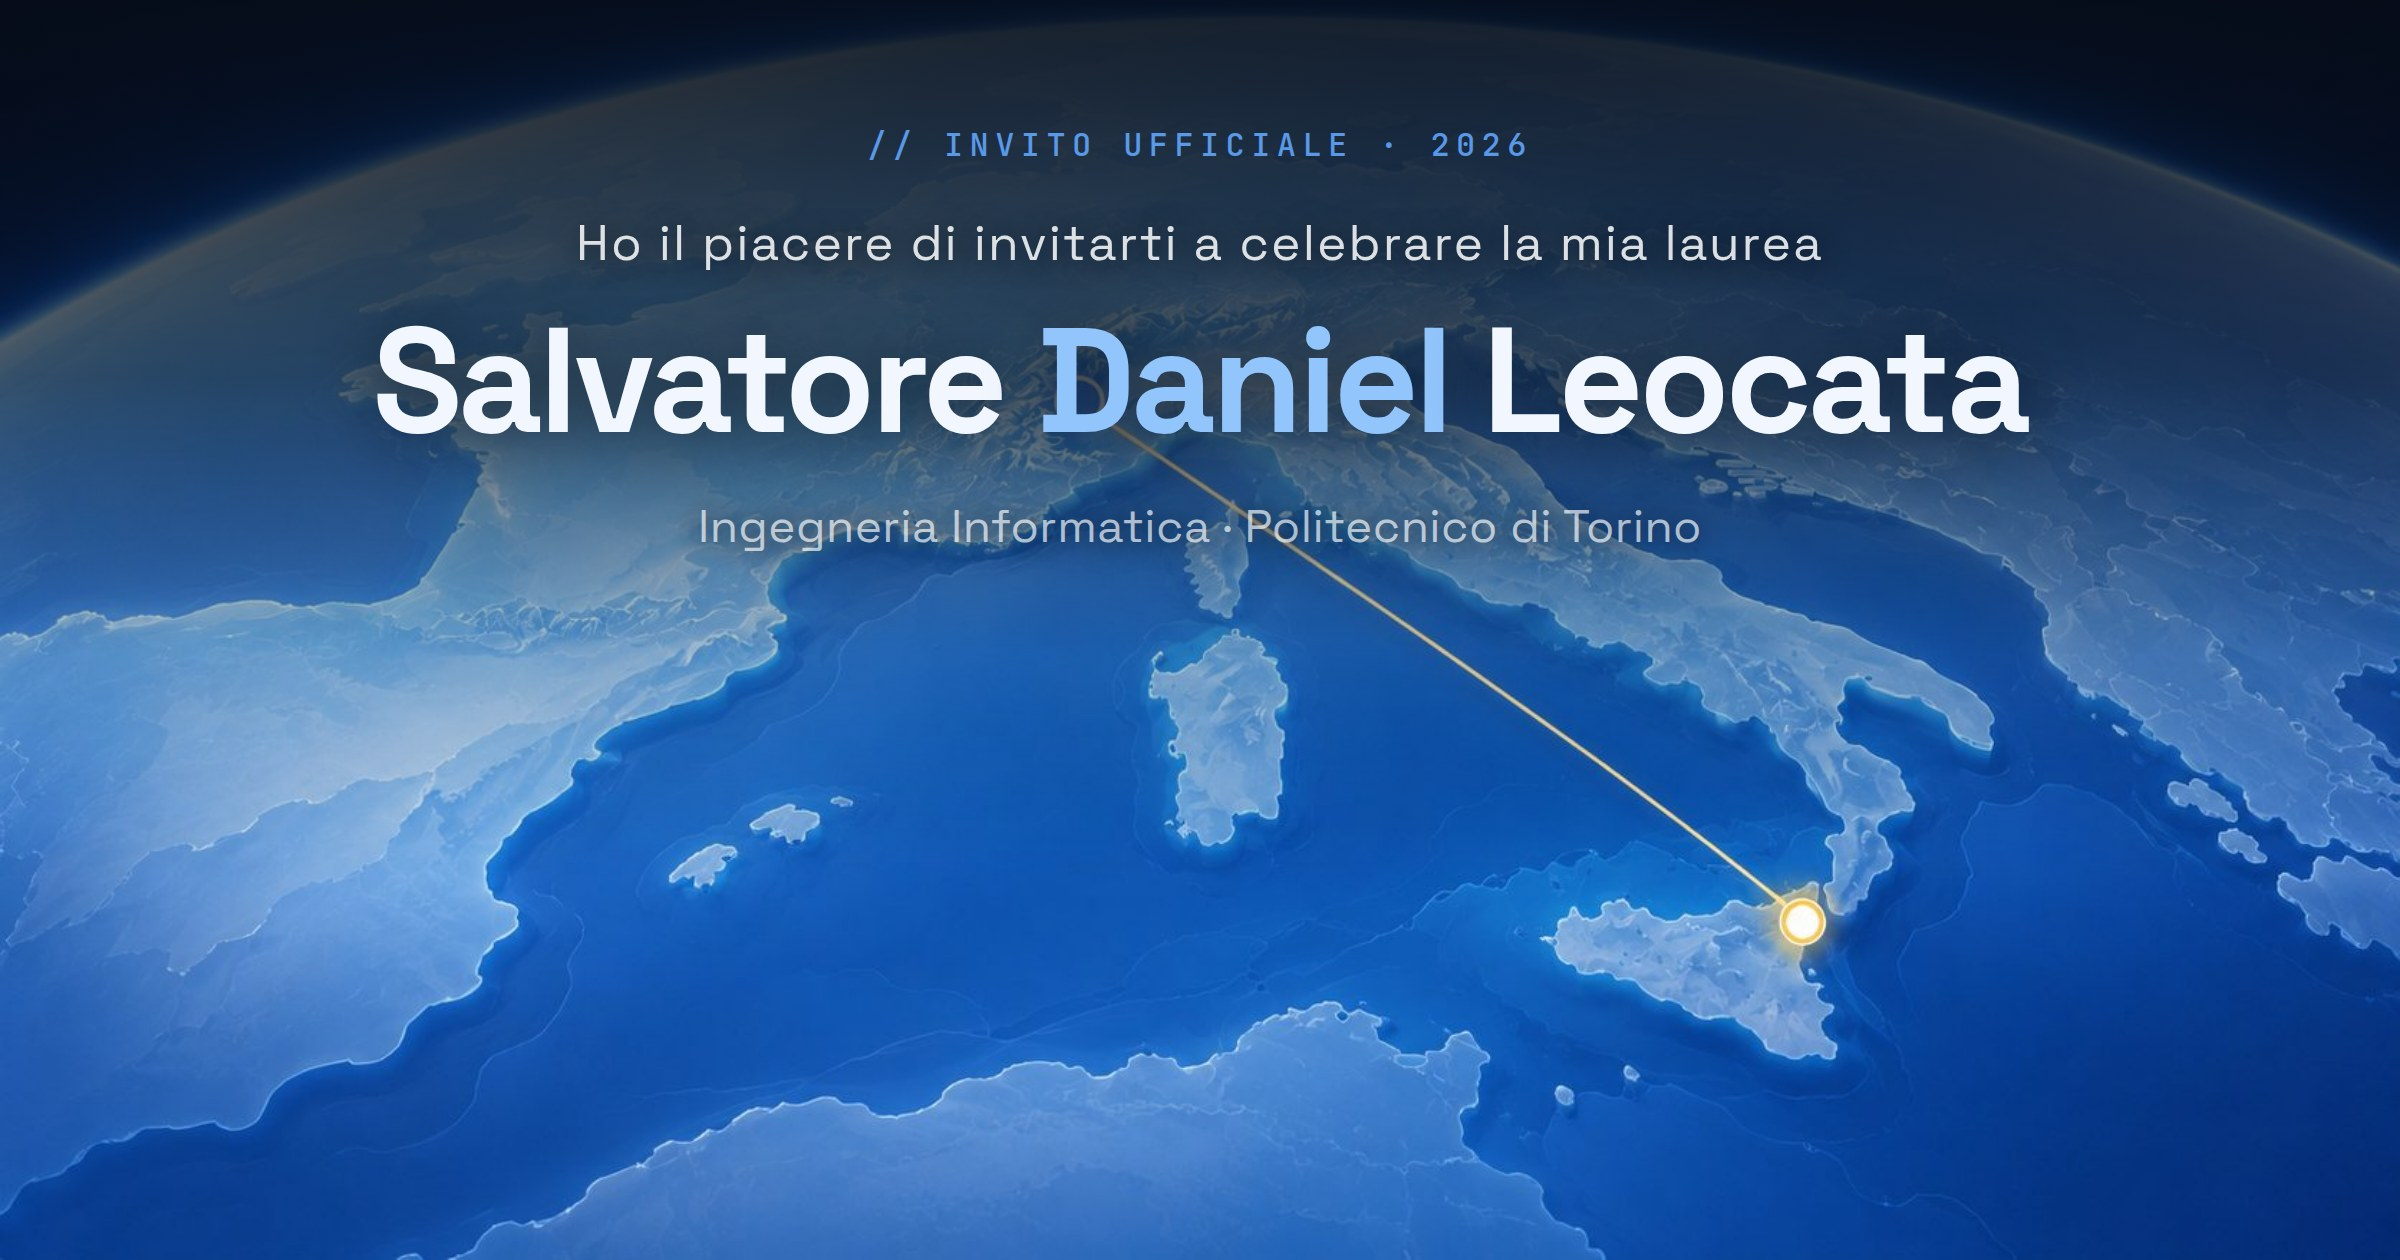
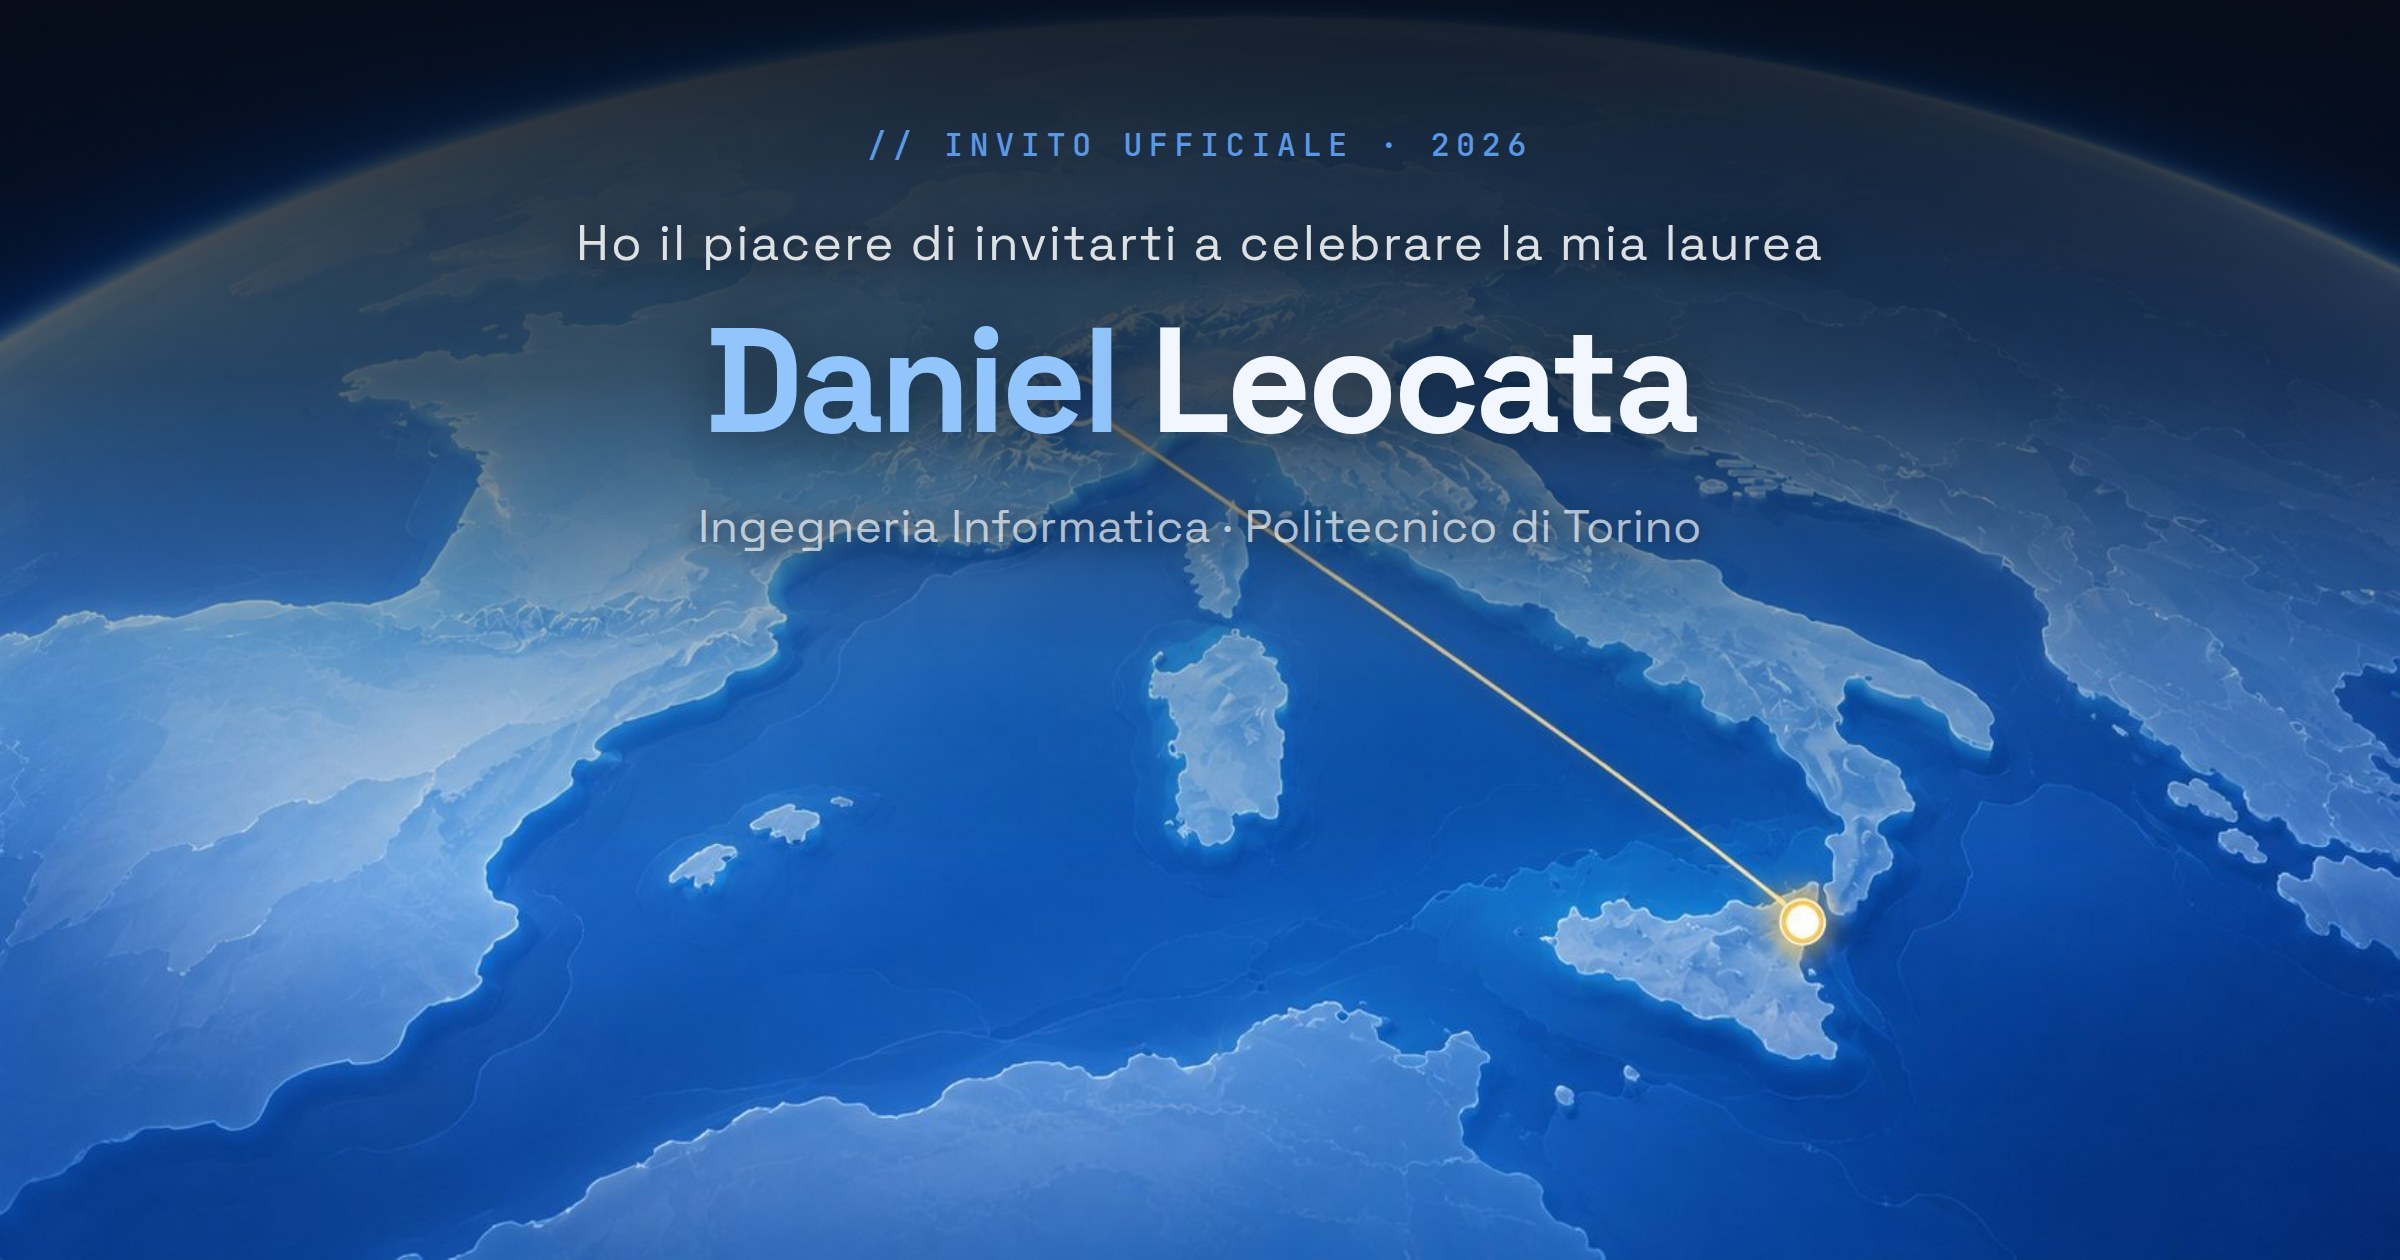
Rename to 'Daniel Leocata' throughout; RSVP deadline to early September
- 'Salvatore Daniel Leocata' -> 'Daniel Leocata' everywhere it appears:
  hero title, splash terminal, footer, .ics event summaries, the reserved
  message label, OG/Twitter metadata (siteName + alt), and the baked-in
  text on the share image (og-invito.jpg re-rendered).
- RSVP deadline: 'entro il 5 settembre 2026' -> 'entro i primi di
  settembre 2026', noting it applies to both events.

Claude-Session: https://claude.ai/code/session_01MfLdA35xtmqSoXEoTk93ye

Changed region(s): [[0.1562, 0.2476, 0.8438, 0.3405]]

diff --git a/components/graduation/graduation.tsx b/components/graduation/graduation.tsx
@@ -64,7 +64,7 @@ const TERMINAL_LINES: { text: string; cls: string; delay: number }[] = [
      fallback font with a different advance width and broke the frame */
   { text: "LAUREA IN INGEGNERIA INFORMATICA", cls: "t-title-line", delay: 2550 },
   { text: "", cls: "", delay: 2800 },
-  { text: "  Student:    Salvatore Daniel Leocata", cls: "t-data", delay: 2900 },
+  { text: "  Student:    Daniel Leocata", cls: "t-data", delay: 2900 },
   { text: "  Degree:     Ingegneria Informatica", cls: "t-data", delay: 3050 },
   { text: "  University: Politecnico di Torino", cls: "t-data", delay: 3200 },
   { text: "  Date:       16 September 2026", cls: "t-data", delay: 3350 },
@@ -126,8 +126,8 @@ export function Graduation() {
   function downloadICS(type: "proclama" | "festa") {
     const ics =
       type === "proclama"
-        ? `BEGIN:VCALENDAR\r\nVERSION:2.0\r\nPRODID:-//SDL Laurea//IT\r\nBEGIN:VEVENT\r\nUID:proclama-2026@sdl\r\nDTSTART:20260916T080000Z\r\nDTEND:20260916T120000Z\r\nSUMMARY:Proclamazione di Laurea - Salvatore Daniel Leocata\r\nDESCRIPTION:Cerimonia di proclamazione di laurea in Ingegneria Informatica\r\nLOCATION:Politecnico di Torino\\, Corso Duca degli Abruzzi 24\\, Torino\r\nEND:VEVENT\r\nEND:VCALENDAR`
-        : `BEGIN:VCALENDAR\r\nVERSION:2.0\r\nPRODID:-//SDL Laurea//IT\r\nBEGIN:VEVENT\r\nUID:festa-2026@sdl\r\nDTSTART:20261003T180000Z\r\nDTEND:20261004T010000Z\r\nSUMMARY:Festeggiamenti Laurea - Salvatore Daniel Leocata\r\nDESCRIPTION:Cena e festeggiamenti per la laurea\r\nLOCATION:Beauty Garden Banqueting\\, Biancavilla\\, Catania\r\nEND:VEVENT\r\nEND:VCALENDAR`;
+        ? `BEGIN:VCALENDAR\r\nVERSION:2.0\r\nPRODID:-//SDL Laurea//IT\r\nBEGIN:VEVENT\r\nUID:proclama-2026@sdl\r\nDTSTART:20260916T080000Z\r\nDTEND:20260916T120000Z\r\nSUMMARY:Proclamazione di Laurea - Daniel Leocata\r\nDESCRIPTION:Cerimonia di proclamazione di laurea in Ingegneria Informatica\r\nLOCATION:Politecnico di Torino\\, Corso Duca degli Abruzzi 24\\, Torino\r\nEND:VEVENT\r\nEND:VCALENDAR`
+        : `BEGIN:VCALENDAR\r\nVERSION:2.0\r\nPRODID:-//SDL Laurea//IT\r\nBEGIN:VEVENT\r\nUID:festa-2026@sdl\r\nDTSTART:20261003T180000Z\r\nDTEND:20261004T010000Z\r\nSUMMARY:Festeggiamenti Laurea - Daniel Leocata\r\nDESCRIPTION:Cena e festeggiamenti per la laurea\r\nLOCATION:Beauty Garden Banqueting\\, Biancavilla\\, Catania\r\nEND:VEVENT\r\nEND:VCALENDAR`;
     const a = document.createElement("a");
     a.href = "data:text/calendar;charset=utf-8," + encodeURIComponent(ics);
     a.download = type === "proclama" ? "proclamazione-sdl.ics" : "festa-laurea-sdl.ics";
@@ -583,7 +583,7 @@ export function Graduation() {
             <div className="hero-label">// invito ufficiale · 2026</div>
             <p className="hero-invite">Ho il piacere di invitarti a celebrare la mia laurea</p>
             <h1 className="cine-title">
-              <span className="first">Salvatore Daniel</span>
+              <span className="first">Daniel</span>
               <br />
               Leocata
             </h1>
@@ -634,7 +634,7 @@ export function Graduation() {
                 Grazie di cuore.
                 <br />
                 <span className="at-sig">
-                  — Salvatore Daniel Leocata, Dott. in Ingegneria Informatica 🎓
+                  — Daniel Leocata, Dott. in Ingegneria Informatica 🎓
                 </span>
               </div>
               <div className="at-prompt">
@@ -840,9 +840,9 @@ export function Graduation() {
               presenza
             </h2>
             <p className="section-desc fade-up delay-2">
-              Facci sapere entro il{" "}
-              <strong style={{ color: "rgba(255,255,255,.8)" }}>5 settembre 2026</strong>{" "}
-              se potrai essere con noi. L&apos;invito è esteso anche ai tuoi accompagnatori.
+              Facci sapere{" "}
+              <strong style={{ color: "rgba(255,255,255,.8)" }}>entro i primi di settembre 2026</strong>{" "}
+              se potrai essere con noi — per entrambi gli eventi. L&apos;invito è esteso anche ai tuoi accompagnatori.
             </p>
             <form className="rsvp-form fade-up delay-2" id="rsvpForm" noValidate onSubmit={handleSubmit}>
               <div className="form-row">
@@ -922,7 +922,7 @@ export function Graduation() {
               </div>
 
               <div className="field">
-                <label>Un messaggio per Salvatore Daniel (opzionale)</label>
+                <label>Un messaggio per Daniel (opzionale)</label>
                 <textarea name="messaggio" placeholder="Scrivi qualcosa di speciale…" />
               </div>
 
@@ -936,7 +936,7 @@ export function Graduation() {
 
       {/* FOOTER */}
       <footer>
-        <div className="footer-name">Salvatore Daniel Leocata</div>
+        <div className="footer-name">Daniel Leocata</div>
         <div className="footer-sub">Ingegneria Informatica · Politecnico di Torino · 2026</div>
         <div className="footer-wait">Ti aspettiamo 🎓</div>
       </footer>

diff --git a/app/layout.tsx b/app/layout.tsx
@@ -39,7 +39,7 @@ export const metadata: Metadata = {
     title: OG_TITLE,
     type: "website",
     url: `${SITE_URL}/`,
-    siteName: "Laurea di Salvatore Daniel Leocata",
+    siteName: "Laurea di Daniel Leocata",
     locale: "it_IT",
     images: [
       {
@@ -47,7 +47,7 @@ export const metadata: Metadata = {
         width: 2400,
         height: 1260,
         type: "image/jpeg",
-        alt: "Invito alla laurea di Salvatore Daniel Leocata — Ingegneria Informatica, Politecnico di Torino",
+        alt: "Invito alla laurea di Daniel Leocata — Ingegneria Informatica, Politecnico di Torino",
       },
     ],
   },
